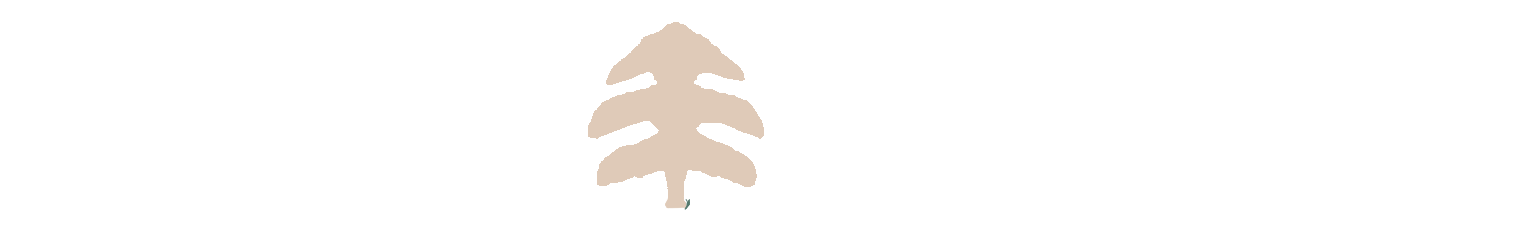
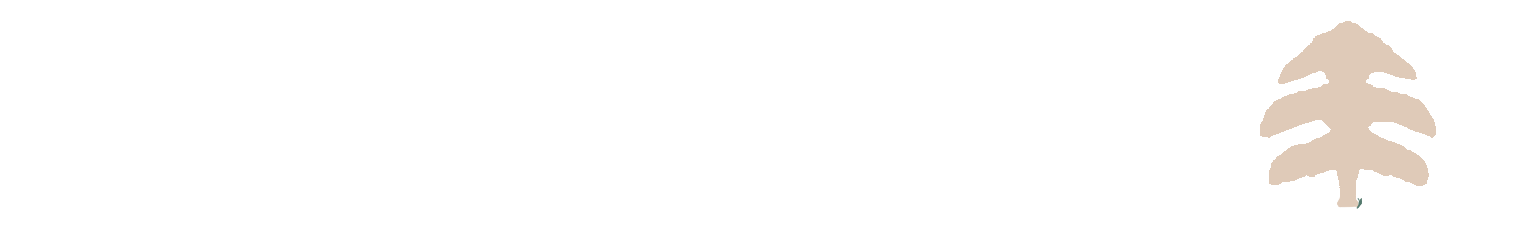
mobile smaller wordmark

Changed region(s): [[0.7961, 0.0886, 0.9492, 0.8861], [0.3674, 0.0886, 0.5205, 0.8861]]

diff --git a/index.html b/index.html
@@ -186,7 +186,7 @@
                         }
                         @media only screen and (max-width: 900px) {
                             .logo {
-                                height: 35px;
+                                height: 25px;
                             }
                         }
                     </style>
@@ -201,7 +201,7 @@
                 <a href="careers.html">
                     <div class="premier-link underline-animated">Careers</div>
                 </a>
-                <a href="https://blog.us.ai">
+                <a href="https://blog.goodreason.ai">
                     <div class="premier-link underline-animated">Blog</div>
                 </a>
             </div>
@@ -211,7 +211,7 @@
                 </div>
                 <div class="premier-secondary">
                     <div class="premier-inquiries">
-                        Inquiries to <a href="mailto:team@us.ai">team@us.ai</a>
+                        Inquiries to <a href="mailto:team@goodreason.ai">team@goodreason.ai</a>
                     </div>
                     <div class="premier-button-wrapper">
                         <a href="#mission-page"><div class="premier-button">Mission</div></a>
@@ -595,10 +595,10 @@
                     <a href="careers.html">Careers</a>
                 </div>
                 <div>
-                    Inquiries to team@us.ai
+                    Inquiries to team@goodreason.ai
                 </div>
                 <div>
-                    <a href="https://us.ai/TermsOfUse.pdf">Terms of Use</a> and <a href="https://us.ai/WebsitePrivacyPolicy.pdf">Privacy Policy</a> 
+                    <a href="https://goodreason.ai/TermsOfUse.pdf">Terms of Use</a> and <a href="https://goodeason.ai/WebsitePrivacyPolicy.pdf">Privacy Policy</a> 
                 </div>
                 <div>
                     Copyright © U.S. Artificial Intelligence Inc. All rights reserved.
